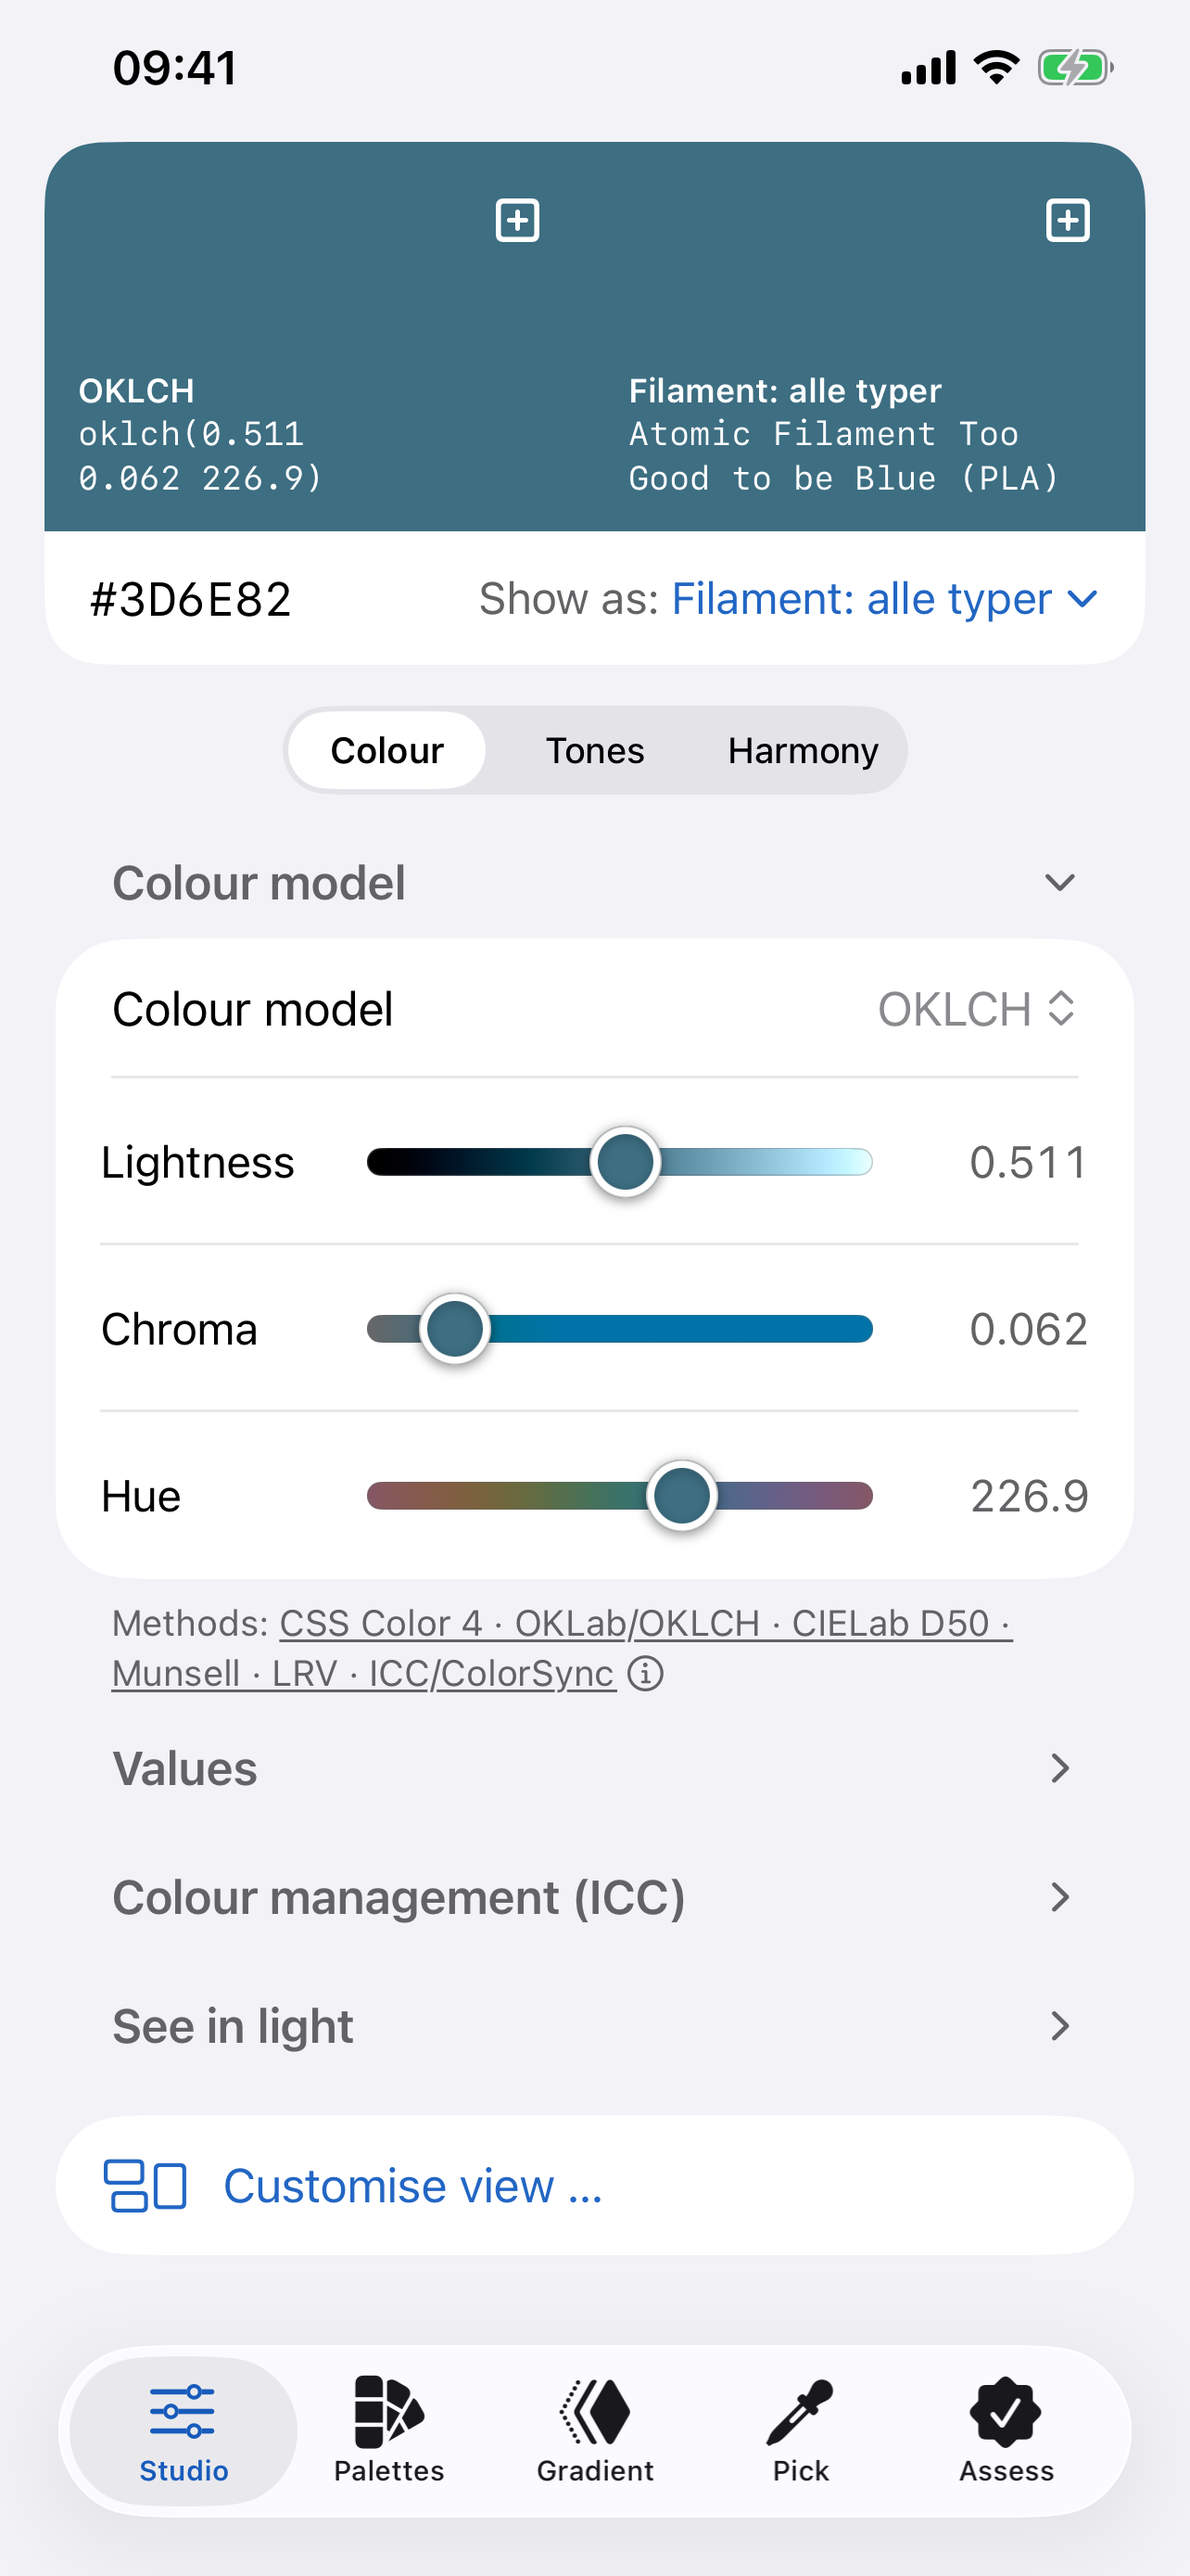
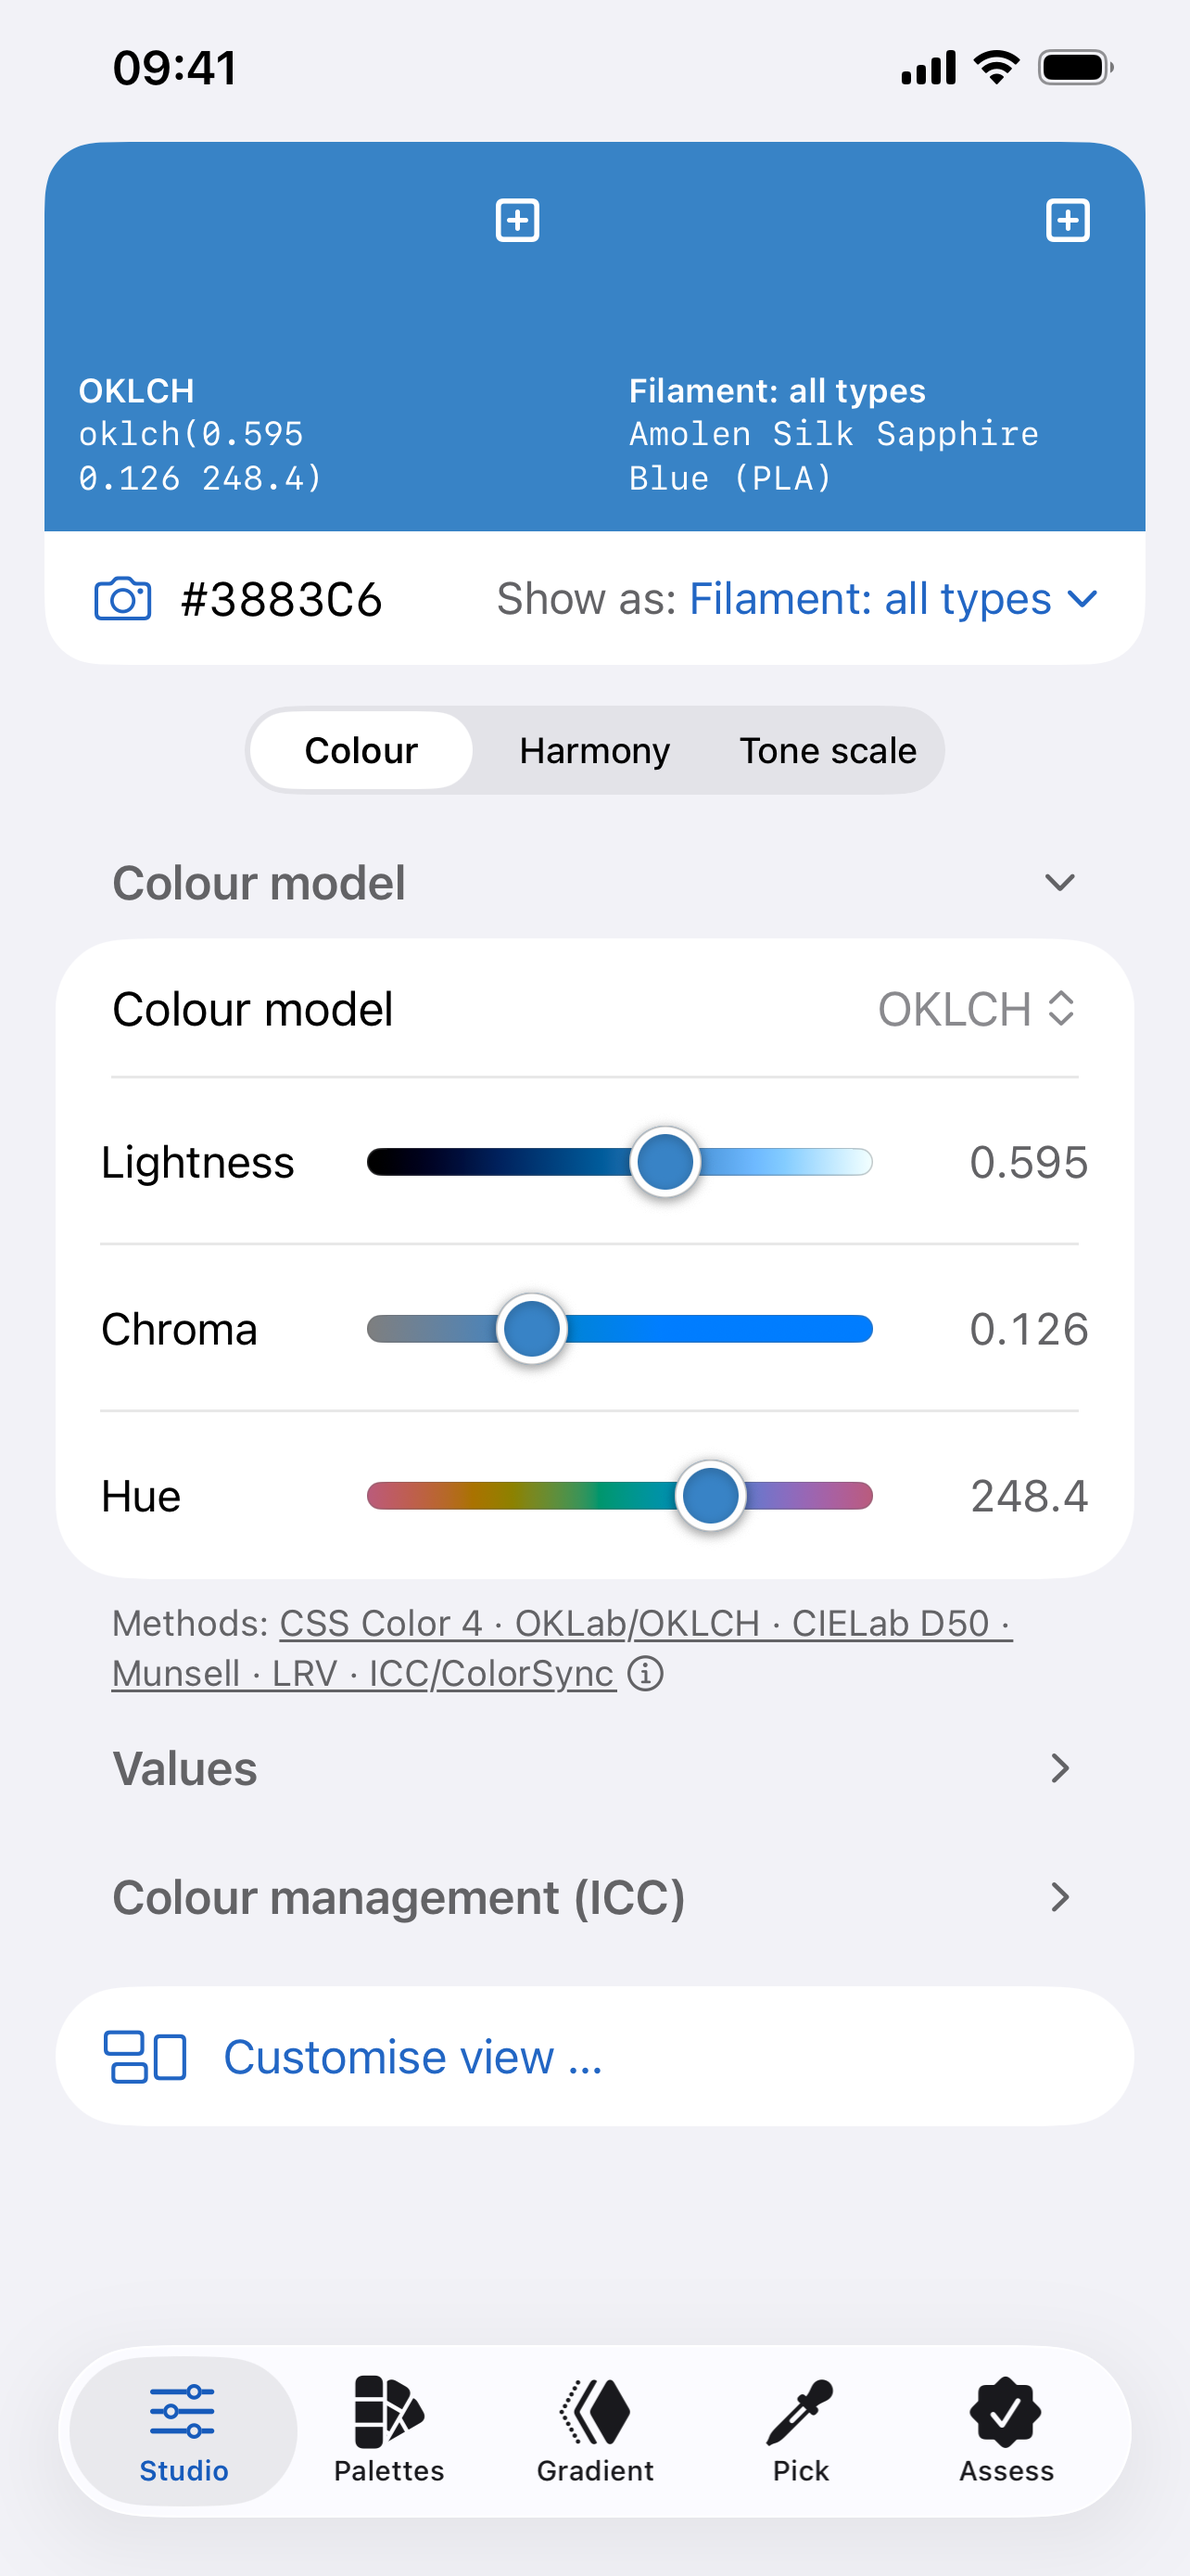
Web 1.3: Munsell, filament, monokrom, lys for arkitektur og palett i lys tatt på nytt (norsk og engelsk); engelsk typenavn for Kolorist-palett

diff --git a/web/1.3/en/filament.html b/web/1.3/en/filament.html
@@ -68,7 +68,7 @@
         </ul>
       </div>
       <figure class="skjermbilde">
-        <img src="../assets/en/skjermbilde-filament.png?v=8" alt="Studio with “Filament: all types”: the colour and the nearest filament, Atomic Filament Too Good to be Blue (PLA)" width="1284" height="2778" loading="lazy">
+        <img src="../assets/en/skjermbilde-filament.png?v=8" alt="Studio with “Filament: all types”: the colour and the nearest filament, Amolen Silk Sapphire Blue (PLA)" width="1284" height="2778" loading="lazy">
         <figcaption>Nearest filament</figcaption>
       </figure>
     </section>

diff --git a/web/1.3/filament.html b/web/1.3/filament.html
@@ -68,7 +68,7 @@
         </ul>
       </div>
       <figure class="skjermbilde">
-        <img src="assets/skjermbilde-filament.png?v=8" alt="Studio med «Filament: alle typer»: fargen og nærmeste filament, Atomic Filament Too Good to be Blue (PLA)" width="1284" height="2778" loading="lazy">
+        <img src="assets/skjermbilde-filament.png?v=8" alt="Studio med «Filament: alle typer»: fargen og nærmeste filament, Amolen Silk Sapphire Blue (PLA)" width="1284" height="2778" loading="lazy">
         <figcaption>Nærmeste filament</figcaption>
       </figure>
     </section>

diff --git a/web/1.3/en/architecture.html b/web/1.3/en/architecture.html
@@ -80,7 +80,7 @@
         </ul>
       </div>
       <figure class="skjermbilde">
-        <img src="../assets/en/skjermbilde-munsell.png?v=8" alt="Studio with a brick-red colour in Munsell notation, 10R 5/8 – hue, value and chroma" width="1284" height="2778" loading="lazy">
+        <img src="../assets/en/skjermbilde-munsell.png?v=8" alt="Studio with a brick-red colour in Munsell notation, 10R 5.1/7.3 – hue, value and chroma" width="1284" height="2778" loading="lazy">
         <figcaption>Munsell</figcaption>
       </figure>
     </section>

diff --git a/web/1.3/arkitektur.html b/web/1.3/arkitektur.html
@@ -80,7 +80,7 @@
         </ul>
       </div>
       <figure class="skjermbilde">
-        <img src="assets/skjermbilde-munsell.png?v=8" alt="Studio med en teglrød farge i Munsell-notasjon, 10R 5/8 – kulør, valør og kroma" width="1284" height="2778" loading="lazy">
+        <img src="assets/skjermbilde-munsell.png?v=8" alt="Studio med en teglrød farge i Munsell-notasjon, 10R 5,1/7,3 – kulør, valør og kroma" width="1284" height="2778" loading="lazy">
         <figcaption>Munsell</figcaption>
       </figure>
     </section>

diff --git a/web/verktøy/lag_sider.py b/web/verktøy/lag_sider.py
@@ -163,8 +163,8 @@ NYE_BILDER = {
     ('en', 'monokrom'): ('Monochromatic harmony: six tones of orange along a line from rich orange to a dark, saturated tone, in the lightness and saturation field', 'Monochromatic'),
     ('nb', 'harmoni-aksent'): ('Harmoni: analog med komplementær aksent og naturlig lyshetsrekkefølge, vist på fargesirkelen', 'Analog med aksent'),
     ('en', 'harmoni-aksent'): ('Harmony: analogous with a complementary accent and natural lightness order, shown on the colour wheel', 'Analogous with accent'),
-    ('nb', 'munsell'): ('Studio med en teglrød farge i Munsell-notasjon, 10R 5/8 – kulør, valør og kroma', 'Munsell'),
-    ('en', 'munsell'): ('Studio with a brick-red colour in Munsell notation, 10R 5/8 – hue, value and chroma', 'Munsell'),
+    ('nb', 'munsell'): ('Studio med en teglrød farge i Munsell-notasjon, 10R 5,1/7,3 – kulør, valør og kroma', 'Munsell'),
+    ('en', 'munsell'): ('Studio with a brick-red colour in Munsell notation, 10R 5.1/7.3 – hue, value and chroma', 'Munsell'),
     ('nb', 'arkitektur-lys'): ('Lys under Vurdering: en teglrød farge på skjermen og i stua om kvelden, og under flere betraktningsforhold med fargeskiftet for hvert', 'Fargen under ulike betraktningsforhold'),
     ('en', 'arkitektur-lys'): ('Light under Assess: a brick-red colour on screen and in the living room in the evening, and in more viewing conditions with the colour shift for each', 'The colour in viewing conditions'),
     ('nb', 'palett-lys'): ('En palett i lys: fargen på skjermen øverst og i stua om kvelden nederst i hver rute, med fargeskiftet', 'Paletten i lys'),
@@ -173,8 +173,8 @@ NYE_BILDER = {
     ('en', 'skriftkontrast'): ('Text contrast in a palette: each colour as text on the others, with WCAG contrast and how many colour pairs pass', 'Text contrast'),
 }
 NYE_BILDER.update({
-    ('nb', 'filament'): ('Studio med «Filament: alle typer»: fargen og nærmeste filament, Atomic Filament Too Good to be Blue (PLA)', 'Nærmeste filament'),
-    ('en', 'filament'): ('Studio with “Filament: all types”: the colour and the nearest filament, Atomic Filament Too Good to be Blue (PLA)', 'Nearest filament'),
+    ('nb', 'filament'): ('Studio med «Filament: alle typer»: fargen og nærmeste filament, Amolen Silk Sapphire Blue (PLA)', 'Nærmeste filament'),
+    ('en', 'filament'): ('Studio with “Filament: all types”: the colour and the nearest filament, Amolen Silk Sapphire Blue (PLA)', 'Nearest filament'),
     ('nb', 'del-app'): ('En delt palett åpnet i Kolorist: forhåndsvisning med farger og gradient, og «Legg til i paletter»', 'Mottatt i appen'),
     ('en', 'del-app'): ('A shared palette opened in Kolorist: preview with colours and gradient, and “Add to palettes”', 'Received in the app'),
     ('nb', 'del-web'): ('En delt palett i nettleseren på kolorist.no: fargene med hex, OKLCH, CIELab og Munsell', 'I nettleseren'),
